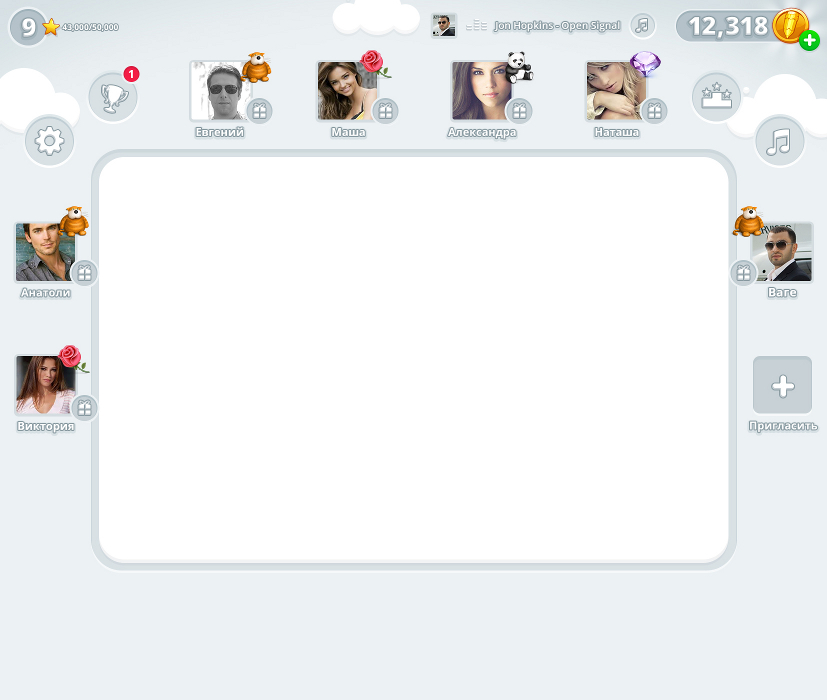
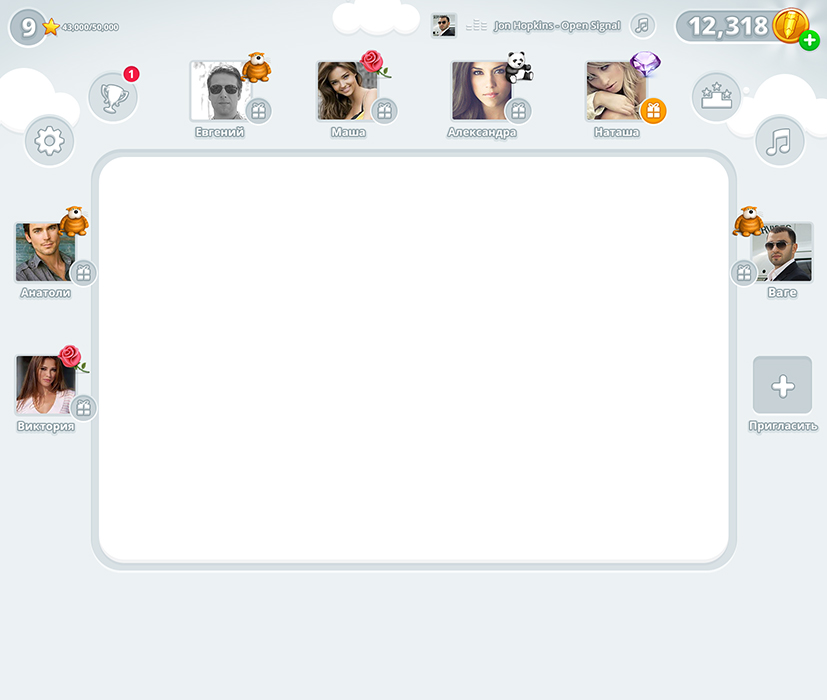
fixed

diff --git a/images/sprites2x.css b/images/sprites2x.css
@@ -1,0 +1,94 @@
+.cog-icon, .diamond-icon, .note-icon, .pencil-icon, .place-icon, .plus-green-icon, .plus-icon, .present2-icon, .present-icon, .puma-icon, .rose-icon, .stack-icon, .star-icon, .tiger-icon, .vase-icon{
+	background: url(sprites.png) no-repeat;
+}
+
+.cog-icon{
+	background-position: 0 -1.0104141235351562px ;
+	width: 35px;
+	height: 35px;
+}
+
+.diamond-icon{
+	background-position: -352.9895782470703px -4.010414123535156px ;
+	width: 35px;
+	height: 33px;
+}
+
+.note-icon{
+	background-position: -99.96875px 0;
+	width: 29px;
+	height: 33px;
+}
+
+.pencil-icon{
+	background-position: -254.98959350585938px -48.010406494140625px ;
+	width: 39px;
+	height: 40px;
+}
+
+.place-icon{
+	background-position: -150.97915649414062px -1px ;
+	width: 36px;
+	height: 32px;
+}
+
+.plus-green-icon{
+	background-position: -305.9895935058594px -59.010414123535156px ;
+	width: 19px;
+	height: 18px;
+}
+
+.plus-icon{
+	background-position: -203.98959350585938px -4.010414123535156px ;
+	width: 30px;
+	height: 30px;
+}
+
+.present2-icon{
+	background-position: -8.989593505859375px -58.010414123535156px ;
+	width: 18px;
+	height: 21px;
+}
+
+.present-icon{
+	background-position: -305.9895935058594px -8.010414123535156px ;
+	width: 19px;
+	height: 22px;
+}
+
+.puma-icon{
+	background-position: -148.98959350585938px -52.010414123535156px ;
+	width: 35px;
+	height: 34px;
+}
+
+.rose-icon{
+	background-position: -200.98959350585938px -53.010414123535156px ;
+	width: 32px;
+	height: 31px;
+}
+
+.stack-icon{
+	background-position: -254.98959350585938px -8.010414123535156px ;
+	width: 27px;
+	height: 18px;
+}
+
+.star-icon{
+	background-position: -55.989593505859375px -57.010414123535156px ;
+	width: 23px;
+	height: 23px;
+}
+
+.tiger-icon{
+	background-position: -96.98957824707031px -50.010414123535156px ;
+	width: 34px;
+	height: 33px;
+}
+
+.vase-icon{
+	background-position: -50.96874237060547px -2.0104141235351562px ;
+	width: 33px;
+	height: 35px;
+}
+

diff --git a/images/sprites.css b/images/sprites.css
@@ -1,0 +1,94 @@
+.cog-icon, .gold-pencil@2x, .note-large-icon, .place-icon, .plus-green@2x, .plus-icon, .present-icon, .toy-tiger@2x, .vase-icon, .toy-puma@2x, .toy-diamond@2x, .toy-roze@2x, .star@2x, .present-icon-2@2x, .stack@2x{
+	background: url(sprites.png) no-repeat;
+}
+
+.cog-icon{
+	background-position: 0 0;
+	width: 64px;
+	height: 64px;
+}
+
+.gold-pencil@2x{
+	background-position: -86.00000762939453px -91px ;
+	width: 87px;
+	height: 84px;
+}
+
+.note-large-icon{
+	background-position: -198.00000762939453px -3px ;
+	width: 52px;
+	height: 59px;
+}
+
+.place-icon{
+	background-position: -102.00000762939453px -2px ;
+	width: 65px;
+	height: 58px;
+}
+
+.plus-green@2x{
+	background-position: -15.000007629394531px -216px ;
+	width: 33px;
+	height: 32px;
+}
+
+.plus-icon{
+	background-position: -405.00000762939453px -8px ;
+	width: 53px;
+	height: 52px;
+}
+
+.present-icon{
+	background-position: -515px -12px ;
+	width: 32px;
+	height: 37px;
+}
+
+.toy-tiger@2x{
+	background-position: -195px -98px ;
+	width: 69px;
+	height: 66px;
+}
+
+.vase-icon{
+	background-position: -302.00000762939453px 0;
+	width: 62px;
+	height: 64px;
+}
+
+.toy-puma@2x{
+	background-position: -293.00000762939453px -98px ;
+	width: 70px;
+	height: 68px;
+}
+
+.toy-diamond@2x{
+	background-position: -96.00003814697266px -200px ;
+	width: 70px;
+	height: 70px;
+}
+
+.toy-roze@2x{
+	background-position: -401.00003814697266px -102px ;
+	width: 64px;
+	height: 62px;
+}
+
+.star@2x{
+	background-position: -211.00000762939453px -208px ;
+	width: 42px;
+	height: 43px;
+}
+
+.present-icon-2@2x{
+	background-position: -15.000007629394531px -112px ;
+	width: 32px;
+	height: 37px;
+}
+
+.stack@2x{
+	background-position: -505.00000762939453px -115px ;
+	width: 48px;
+	height: 29px;
+}
+
